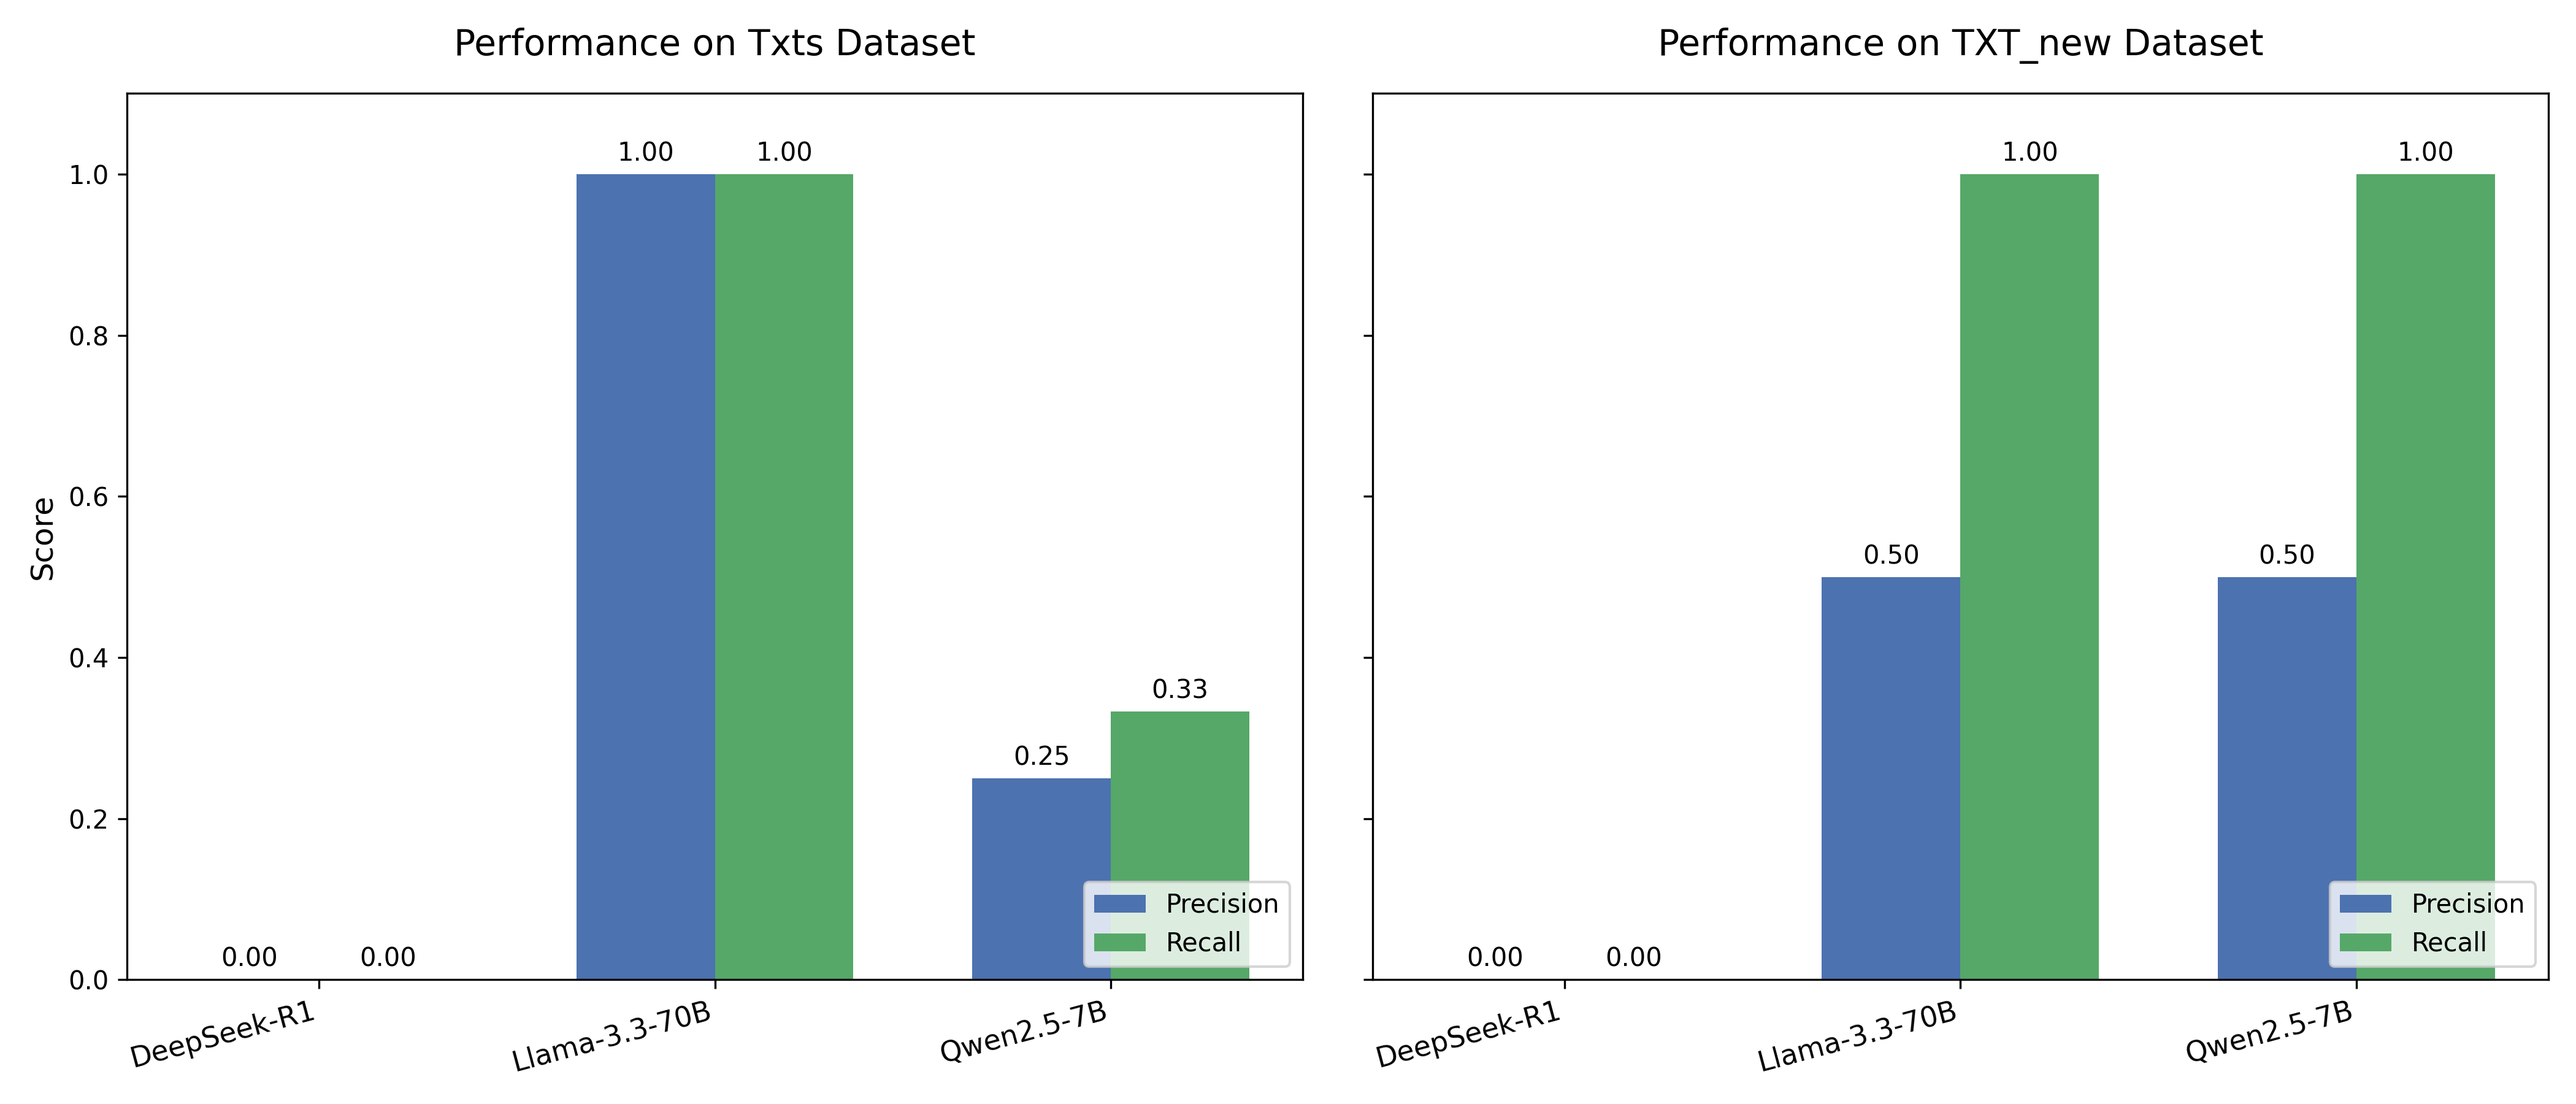
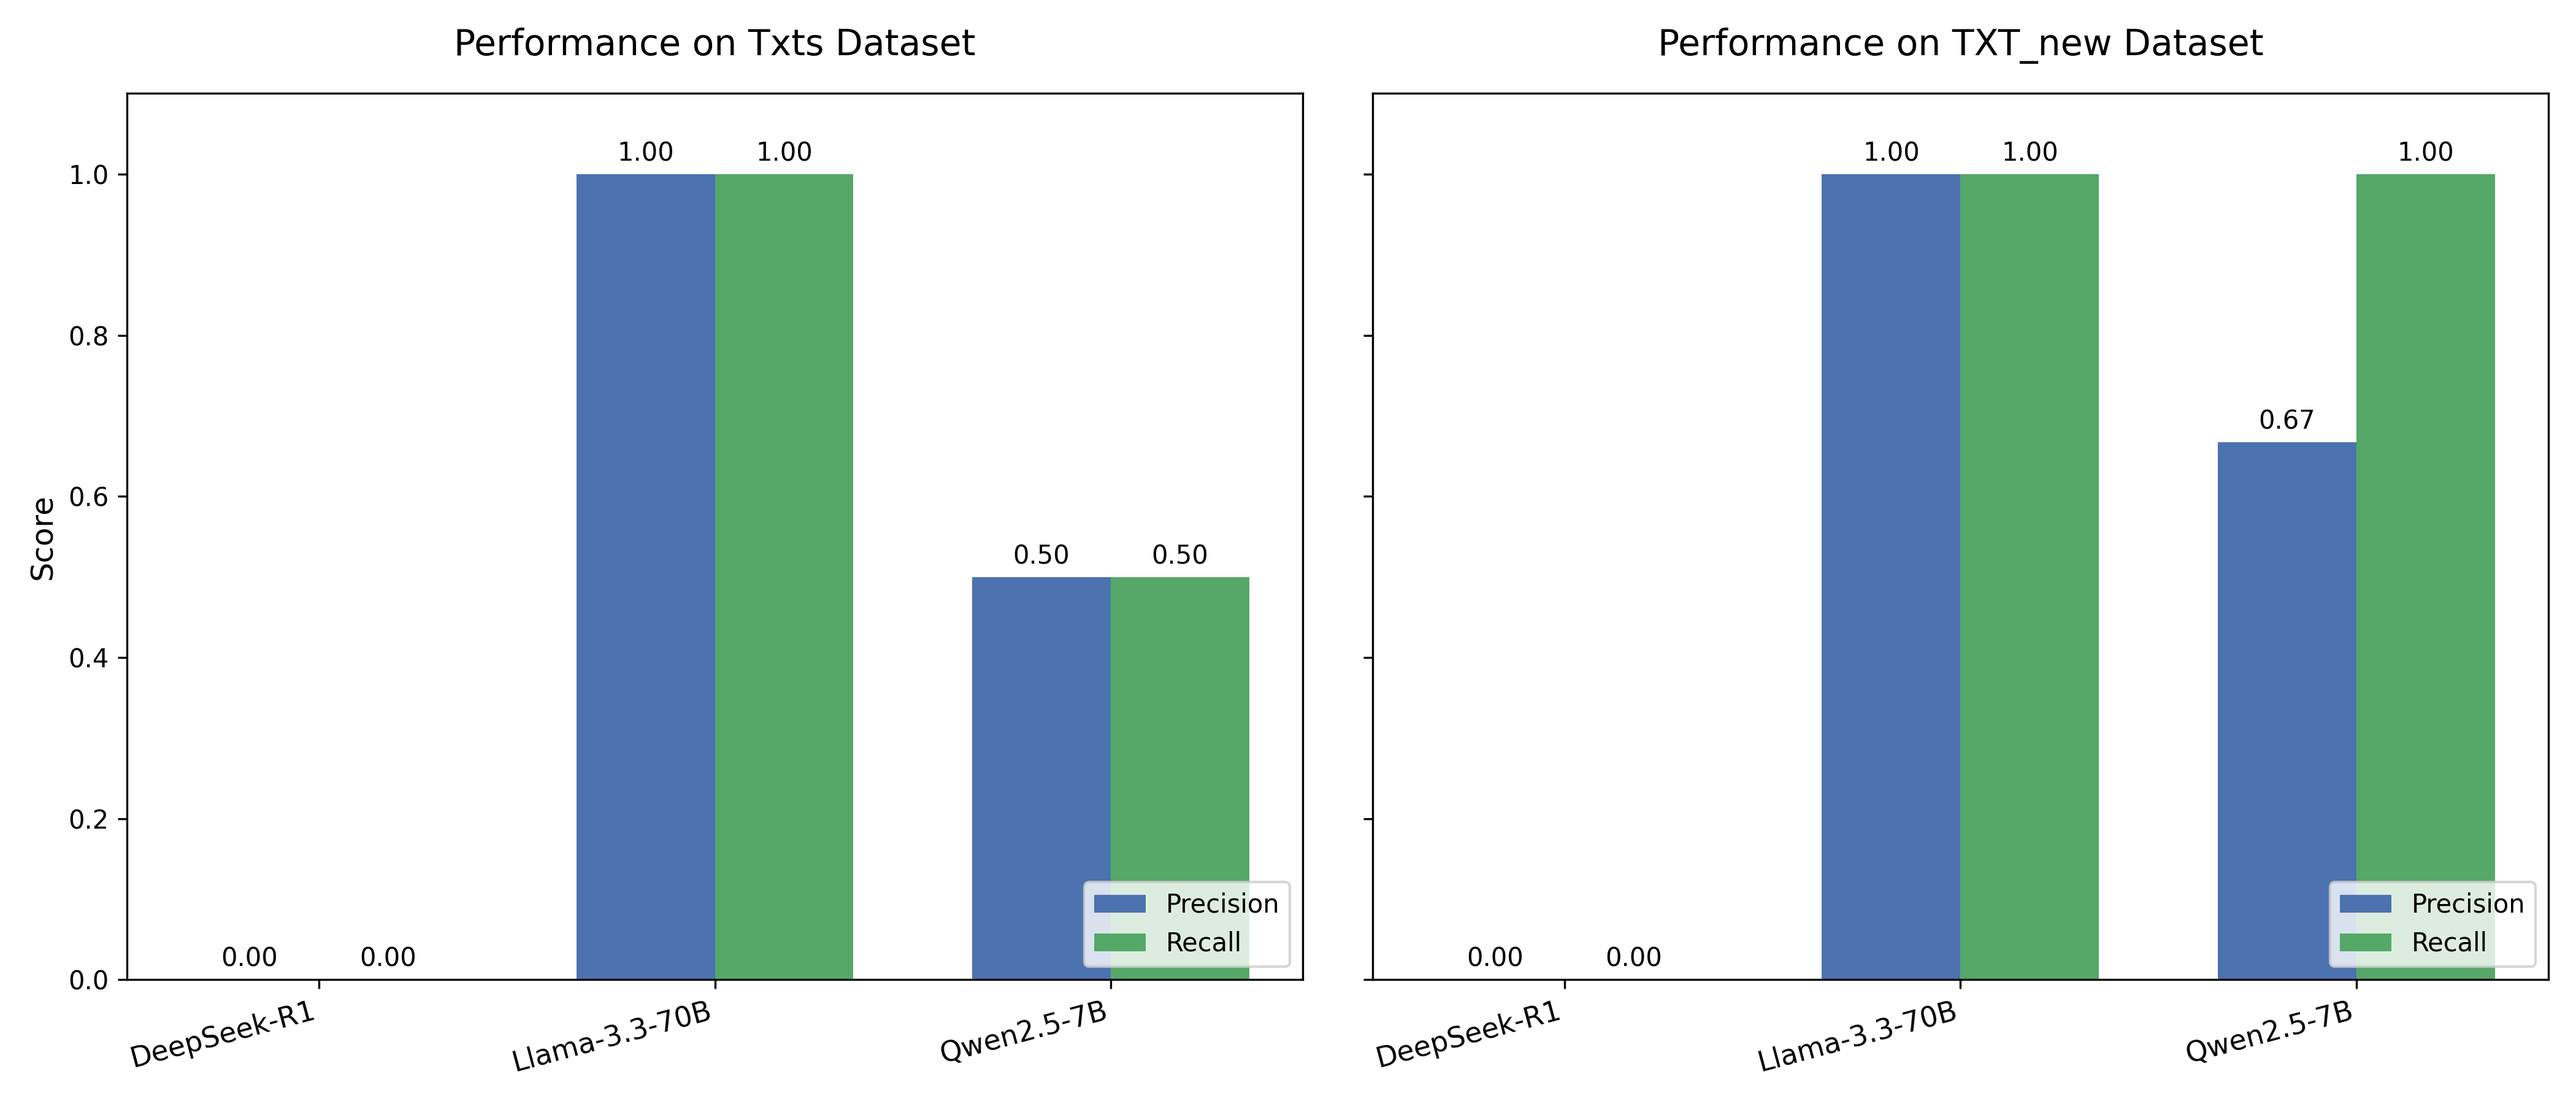
1

Changed region(s): [[0.6862, 0.1244, 0.7798, 0.5289], [0.3743, 0.4978, 0.499, 0.7156], [0.8421, 0.3733, 0.9357, 0.5289]]

diff --git a/LLM_Prompting/ODD_water-use/evaluate_metrics.py b/LLM_Prompting/ODD_water-use/evaluate_metrics.py
@@ -111,7 +111,7 @@ def run_evaluation():
 
     with open(md_file, "w", encoding="utf-8") as f:
         f.write("# 📊 LLM Game Extraction Evaluation Report\n\n")
-        f.write("### Ground Truth Baseline (As clarified by Professor):\n")
+        f.write("### Ground Truth Baseline:\n")
         f.write("**1.** `Upstream_and_Downstream_Withdrawal_Decisions`\n")
         f.write("**2.** `Fish_Extraction_Common_Pool_Resource_Game`\n\n")
         f.write("*(Note: Evaluated strictly for the Decentralized Case per new prompt instructions)*\n\n")

diff --git a/LLM_Prompting/ODD_water-use/evaluation_report.md b/LLM_Prompting/ODD_water-use/evaluation_report.md
@@ -1,34 +1,32 @@
 # 📊 LLM Game Extraction Evaluation Report
 
-### Ground Truth Baseline (Derived directly from ODD text):
-**Txts Dataset:** `Upstream_vs_Downstream_Allocation`, `Agriculture_vs_Fishery_Tradeoff`, `Centralized_vs_Decentralized_Management`
+### Ground Truth Baseline:
+**1.** `Upstream_and_Downstream_Withdrawal_Decisions`
+**2.** `Fish_Extraction_Common_Pool_Resource_Game`
 
-**TXT_new Dataset:** `Upstream_vs_Downstream_Asymmetry`, `Ecological_Tipping_Point_Game`
+*(Note: Evaluated strictly for the Decentralized Case per new prompt instructions)*
 
 ### 1. Core Metrics (Precision & Recall)
 | Model         | Dataset   |   Precision |   Recall |   TP |   FP |   FN |
 |:--------------|:----------|------------:|---------:|-----:|-----:|-----:|
-| DeepSeek-R1   | Txts      |        0    |    0     |    0 |    0 |    3 |
-| Llama-3.3-70B | Txts      |        1    |    1     |    3 |    0 |    0 |
-| Qwen2.5-7B    | Txts      |        0.25 |    0.333 |    1 |    3 |    2 |
-| DeepSeek-R1   | TXT_new   |        0    |    0     |    0 |    0 |    2 |
-| Llama-3.3-70B | TXT_new   |        0.5  |    1     |    2 |    2 |    0 |
-| Qwen2.5-7B    | TXT_new   |        0.5  |    1     |    2 |    2 |    0 |
+| DeepSeek-R1   | Txts      |       0     |      0   |    0 |    0 |    2 |
+| Llama-3.3-70B | Txts      |       1     |      1   |    2 |    0 |    0 |
+| Qwen2.5-7B    | Txts      |       0.5   |      0.5 |    1 |    1 |    1 |
+| DeepSeek-R1   | TXT_new   |       0     |      0   |    0 |    0 |    2 |
+| Llama-3.3-70B | TXT_new   |       1     |      1   |    2 |    0 |    0 |
+| Qwen2.5-7B    | TXT_new   |       0.667 |      1   |    2 |    1 |    0 |
 
 ### 2. 🎯 Error Tracing (False Positives & False Negatives)
 **🔴 DeepSeek-R1 on `Txts` Dataset**
-* **❌ Missed Games (FN)**: `['Centralized_vs_Decentralized_Management', 'Upstream_vs_Downstream_Allocation', 'Agriculture_vs_Fishery_Tradeoff']`
+* **❌ Missed Situations (FN)**: `['Fish_Extraction_Common_Pool_Resource_Game', 'Upstream_and_Downstream_Withdrawal_Decisions']`
 
 **🔴 Qwen2.5-7B on `Txts` Dataset**
-* **❌ Missed Games (FN)**: `['Centralized_vs_Decentralized_Management', 'Upstream_vs_Downstream_Allocation']`
-* **⚠ Hallucinated / Over-extracted Games (FP)**: `['Irrigation_Risk_Game', 'Income_Threshold_Game', 'Water_Prediction_Game']`
+* **❌ Missed Situations (FN)**: `['Upstream_and_Downstream_Withdrawal_Decisions']`
+* **⚠ Hallucinated / Over-extracted Mechanics (FP)**: `['Random_Irrigation_Risk_Mechanic']`
 
 **🔴 DeepSeek-R1 on `TXT_new` Dataset**
-* **❌ Missed Games (FN)**: `['Ecological_Tipping_Point_Game', 'Upstream_vs_Downstream_Asymmetry']`
-
-**🔴 Llama-3.3-70B on `TXT_new` Dataset**
-* **⚠ Hallucinated / Over-extracted Games (FP)**: `['Crop_Failure_Risk_Game', 'Social_Pressure_Game']`
+* **❌ Missed Situations (FN)**: `['Fish_Extraction_Common_Pool_Resource_Game', 'Upstream_and_Downstream_Withdrawal_Decisions']`
 
 **🔴 Qwen2.5-7B on `TXT_new` Dataset**
-* **⚠ Hallucinated / Over-extracted Games (FP)**: `['Crop_Failure_Risk_Game', 'Social_Pressure_Game']`
+* **⚠ Hallucinated / Over-extracted Mechanics (FP)**: `['Some_Extra_Hallucinated_Game']`
 
